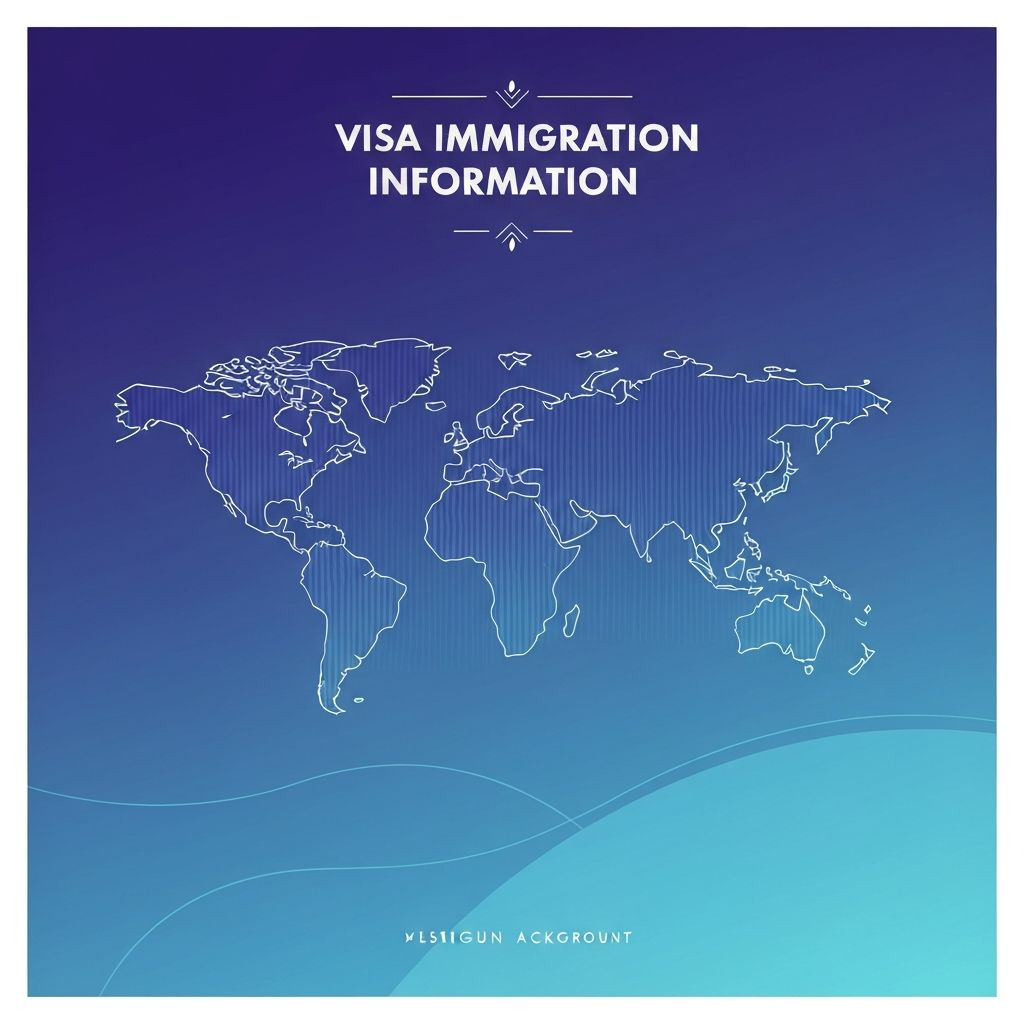
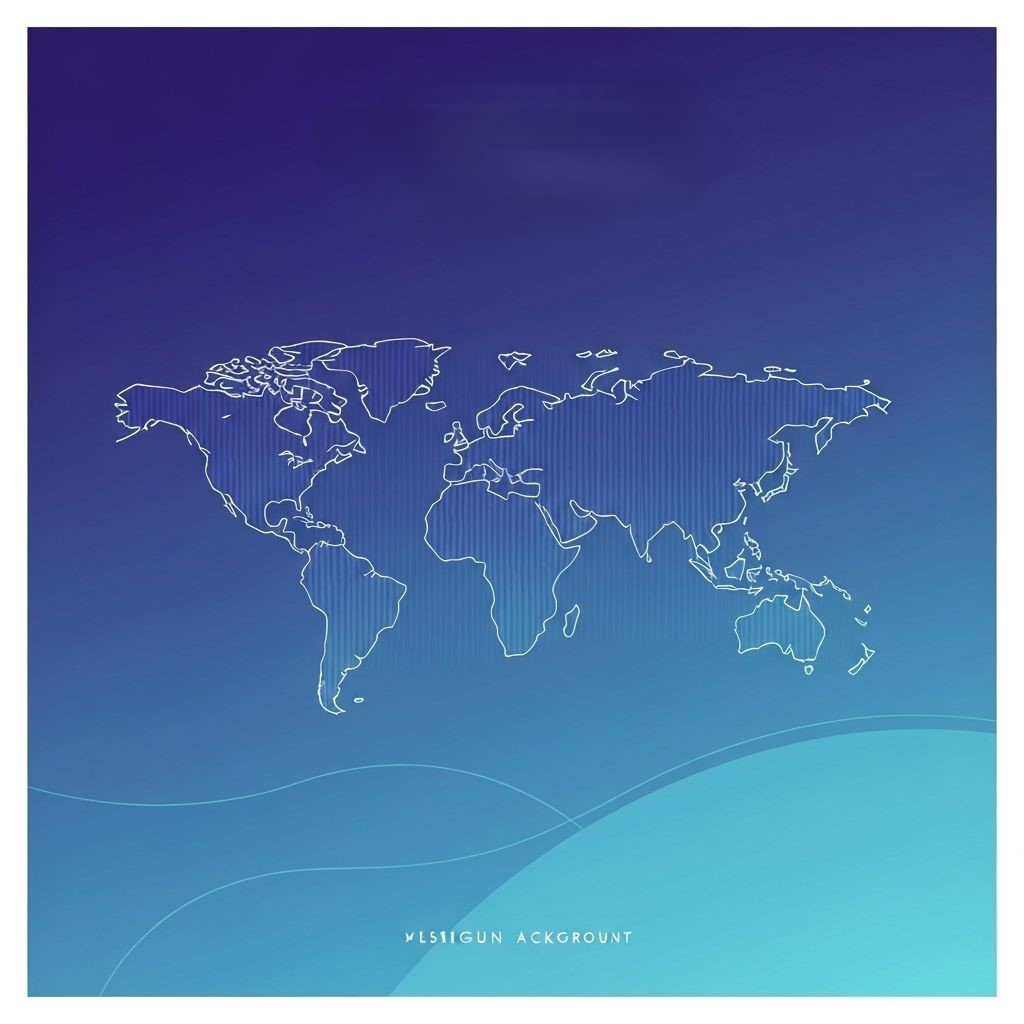
fix text color

Changed region(s): [[0.3125, 0.0938, 0.6875, 0.1875], [0.4688, 0.2188, 0.5312, 0.25]]

diff --git a/app/info/page.tsx b/app/info/page.tsx
@@ -147,7 +147,7 @@ export default function InfoPage() {
       className="min-h-screen bg-background"
       style={{
         backgroundImage: "url('/professional-visa-immigration-information-page-bac.jpg')",
-        backgroundSize: "cover",
+        backgroundSize: "100% 100%",
         backgroundPosition: "center",
         backgroundAttachment: "fixed",
       }}
@@ -178,11 +178,11 @@ export default function InfoPage() {
 
       {/* Hero Section */}
       <section className="py-8 sm:py-12 px-4 bg-gradient-to-b from-primary/10 to-transparent">
-        <div className="max-w-6xl mx-auto text-center">
-          <h1 className="text-3xl sm:text-4xl lg:text-5xl font-bold text-foreground mb-2 sm:mb-4 px-2">
+        <div className="max-w-6xl mx-auto text-white text-center">
+          <h1 className="text-3xl sm:text-4xl lg:text-5xl font-bold mb-2 sm:mb-4 px-2">
             Thông tin Visa Úc
           </h1>
-          <p className="text-base sm:text-lg text-muted-foreground max-w-2xl mx-auto px-2">
+          <p className="text-base sm:text-lg max-w-2xl mx-auto px-2">
             Hướng dẫn chi tiết về định cư, du học, và các loại visa tại Úc
           </p>
         </div>
@@ -241,7 +241,7 @@ export default function InfoPage() {
           </div>
 
           {/* CTA Section */}
-          <div className="mt-12 sm:mt-16 bg-gradient-to-r from-primary/10 to-accent/10 rounded-lg border border-border p-6 sm:p-8 text-center">
+          <div className="mt-12 bg-white sm:mt-16 bg-gradient-to-r from-primary/10 to-accent/10 rounded-lg border border-border p-6 sm:p-8 text-center">
             <h3 className="text-xl sm:text-2xl font-bold text-foreground mb-2 sm:mb-3">Cần tư vấn cá nhân?</h3>
             <p className="text-muted-foreground mb-4 sm:mb-6 max-w-2xl mx-auto text-sm sm:text-base px-2">
               Nói chuyện với trợ lý AI AusVisa của chúng tôi để nhận được tư vấn được cá nhân hóa dựa trên tình huống cụ

diff --git a/app/news/page.tsx b/app/news/page.tsx
@@ -155,7 +155,7 @@ export default function NewsPage() {
       className="min-h-screen bg-background"
       style={{
         backgroundImage: "url('/professional-visa-immigration-information-page-bac.jpg')",
-        backgroundSize: "cover",
+        backgroundSize: "100% 100%",
         backgroundPosition: "center",
         backgroundAttachment: "fixed",
       }}
@@ -186,11 +186,11 @@ export default function NewsPage() {
 
       {/* Hero Section */}
       <section className="py-8 sm:py-12 px-4 bg-gradient-to-b from-primary/10 to-transparent">
-        <div className="max-w-6xl mx-auto text-center">
-          <h1 className="text-3xl sm:text-4xl lg:text-5xl font-bold text-foreground mb-2 sm:mb-4 px-2">
+        <div className="max-w-6xl mx-auto text-white text-center">
+          <h1 className="text-3xl sm:text-4xl lg:text-5xl font-bold mb-2 sm:mb-4 px-2">
             Tin Tức & Hướng Dẫn
           </h1>
-          <p className="text-base sm:text-lg text-muted-foreground max-w-2xl mx-auto px-2">
+          <p className="text-base sm:text-lg max-w-2xl mx-auto px-2">
             Cập nhật thông tin mới nhất về định cư, du học, và visa Úc
           </p>
         </div>
@@ -311,7 +311,7 @@ export default function NewsPage() {
           )}
 
           {/* Additional CTA Section */}
-          <div className="mt-12 sm:mt-16 bg-gradient-to-r from-primary/10 to-accent/10 rounded-lg border border-border p-6 sm:p-8 text-center">
+          <div className="mt-12 bg-white sm:mt-16 bg-gradient-to-r from-primary/10 to-accent/10 rounded-lg border border-border p-6 sm:p-8 text-center">
             <h3 className="text-xl sm:text-2xl font-bold text-foreground mb-2 sm:mb-3">Cần Tư Vấn Cá Nhân?</h3>
             <p className="text-muted-foreground mb-4 sm:mb-6 max-w-2xl mx-auto text-sm sm:text-base px-2">
               Để được tư vấn chi tiết về tình huống của bạn, hãy trò chuyện với trợ lý AI AusVisa.
